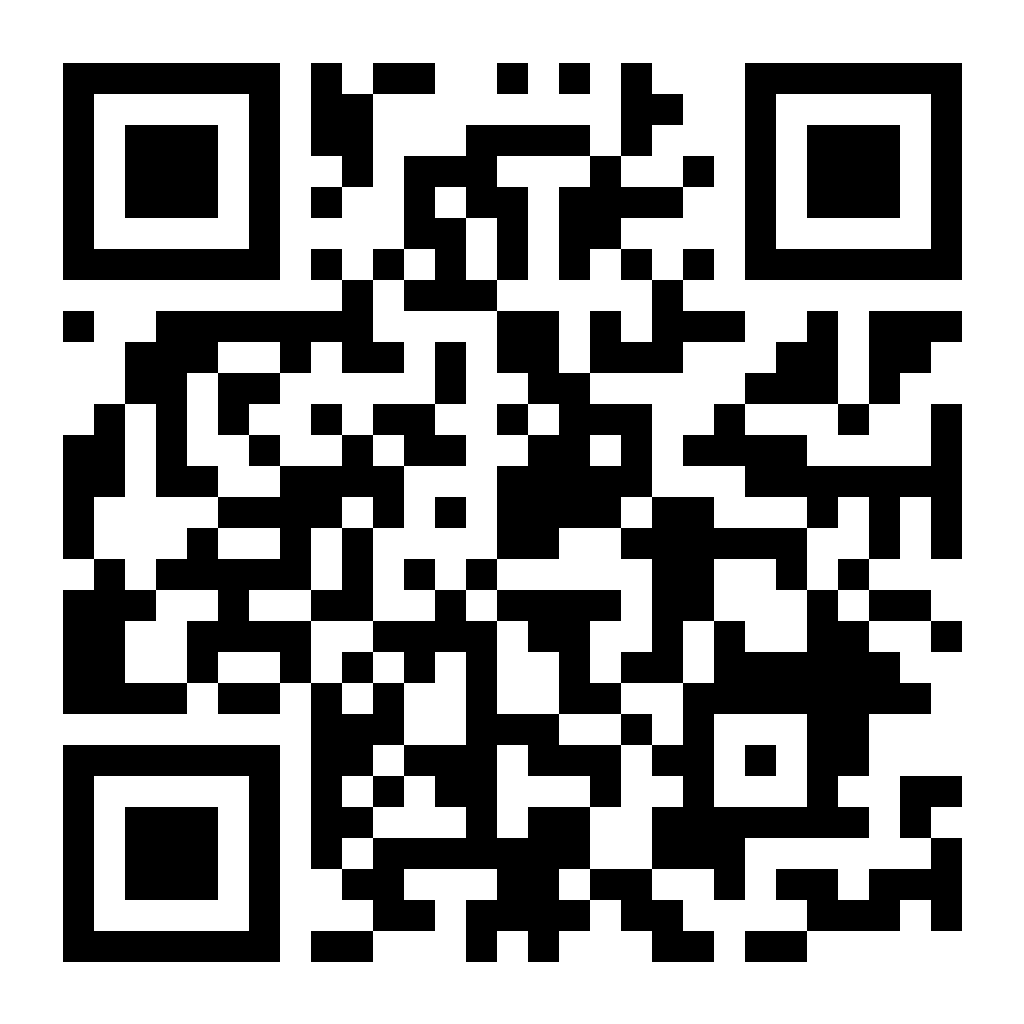
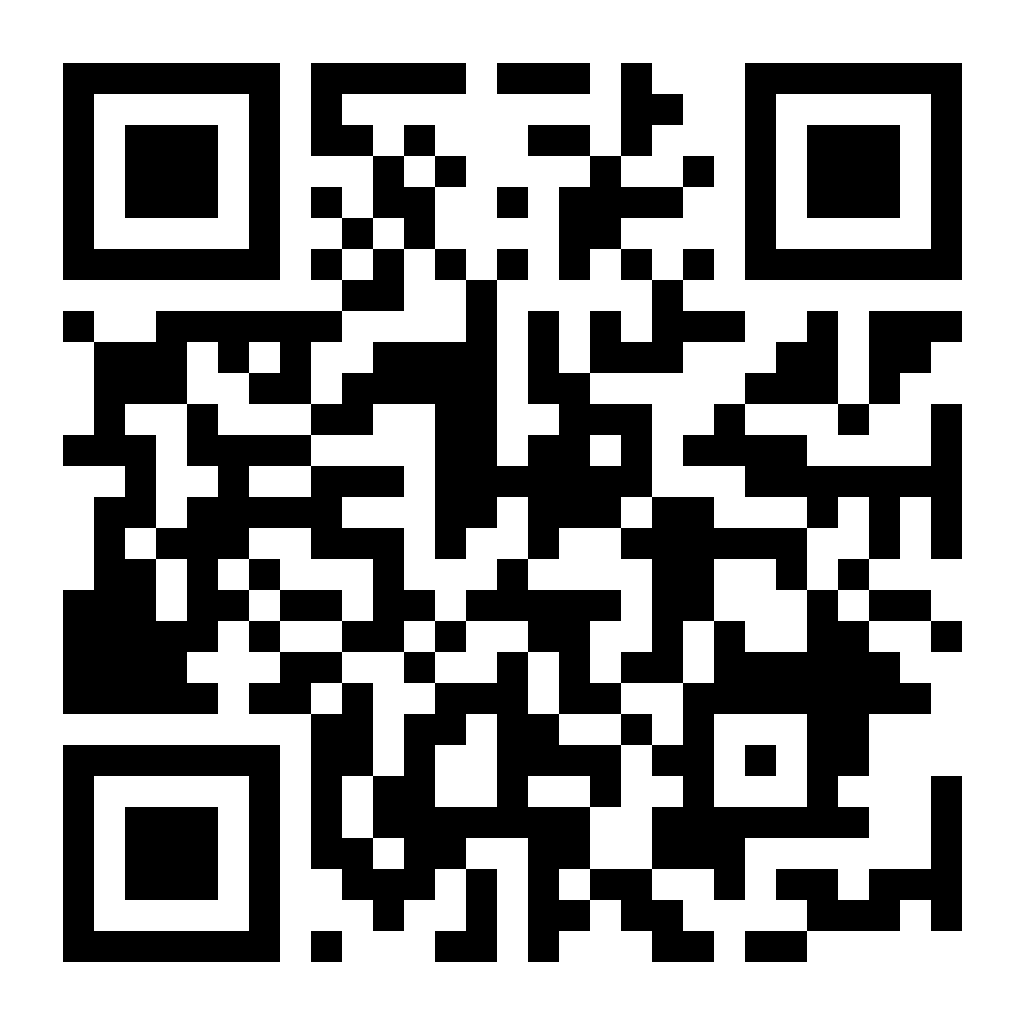
Encode QR to the short production origin only.
Share https://hello-kkt-kitchen.vercel.app; root still redirects to the menu page.

diff --git a/public/menu/index.html b/public/menu/index.html
@@ -14,7 +14,7 @@
       content="Browse the KKT kitchen menu, then call, text, or WhatsApp Chef James to place your order."
     />
     <meta property="og:type" content="website" />
-    <meta property="og:url" content="https://hello-kkt-kitchen.vercel.app/menu/" />
+    <meta property="og:url" content="https://hello-kkt-kitchen.vercel.app/" />
     <meta name="theme-color" content="#2F5D50" />
     <link rel="icon" href="/assets/favicon.svg" type="image/svg+xml" />
     <link rel="preconnect" href="https://fonts.googleapis.com" />

diff --git a/public/js/app.js b/public/js/app.js
@@ -144,7 +144,7 @@ function wireQrSection() {
       : "";
 
   if (qrSection && baseUrl) {
-    qrSection.dataset.menuUrl = `${baseUrl}/menu`;
+    qrSection.dataset.menuUrl = baseUrl;
   }
 
   const qrImg = document.getElementById("qr-img");

diff --git a/README.md b/README.md
@@ -1,6 +1,6 @@
 # hello-kkt-kitchen
 
-Mobile-first digital menu for **KKT kitchen**. Printed and shared QR codes open the public **`/menu`** page in the browser—they do not dial Chef James directly.
+Mobile-first digital menu for **KKT kitchen**. Printed and shared QR codes open **`https://hello-kkt-kitchen.vercel.app`** (which redirects to the menu)—they do not dial Chef James directly.
 
 ## Local preview
 
@@ -24,7 +24,7 @@ Business copy, hours, payment text, and contact links also live in `menu.json` u
 3. **Root Directory:** set to **`public`**. The site files (`menu/`, `data/`, `assets/`, etc.) live under `public/`; there is no `outputDirectory`—the root directory *is* the deploy root.
 4. Leave **Build Command** empty and **Output Directory** empty.
 5. [`public/vercel.json`](public/vercel.json) configures production behavior (permanent `/` → `/menu/` redirect and short cache on `/data/*`). With Root Directory set to **`public`**, Vercel reads `vercel.json` from that folder—not the repository root.
-6. Deploy. Confirm **`https://hello-kkt-kitchen.vercel.app/menu/`** (or your assigned URL) loads the menu.
+6. Deploy. Confirm **`https://hello-kkt-kitchen.vercel.app`** opens the menu (via `/` → `/menu/`).
 
 ### Deployment accounts
 
@@ -43,13 +43,14 @@ GitHub: **karan650gg/hello-kkt-kitchen**. Vercel: **karan650gg/hello-kkt-kitchen
 
 3. Commit the updated `config.js` and `public/assets/qr/*`, then redeploy.
 
-QR files encode **`{baseUrl}/menu`** (no trailing slash). Download links on the menu page point at the generated SVG/PNG.
+QR files encode **`{baseUrl}`** only (shortest shareable URL, no trailing slash). `/` redirects to `/menu/` in production. Download links on the menu page point at the generated SVG/PNG.
 
 ## Permanent URL and redirects
 
 - Keep a **stable** Vercel project name or attach a **custom domain** so printed QR codes stay valid.
-- The menu URL customers should use is **`/menu`** (and `/` redirects to `/menu/` in production).
-- If the public hostname ever changes, add a **redirect from the old origin to the new `/menu/`** (Vercel project/domain settings or `vercel.json` on the old host) so existing printed codes keep working without reprinting.
+- Share **`https://hello-kkt-kitchen.vercel.app`** (or your custom domain). `/menu/` still works for older links.
+- If the public hostname ever changes, add a **redirect from the old origin to the new site** so existing printed codes keep working without reprinting.
+- Want a cleaner name (e.g. `hello-kkt-kitchen.com`)? Buy the domain and add it in the Vercel project → Domains, then update `baseUrl` and re-run `npm run generate:qr`.
 
 ## QR workflow (summary)
 
